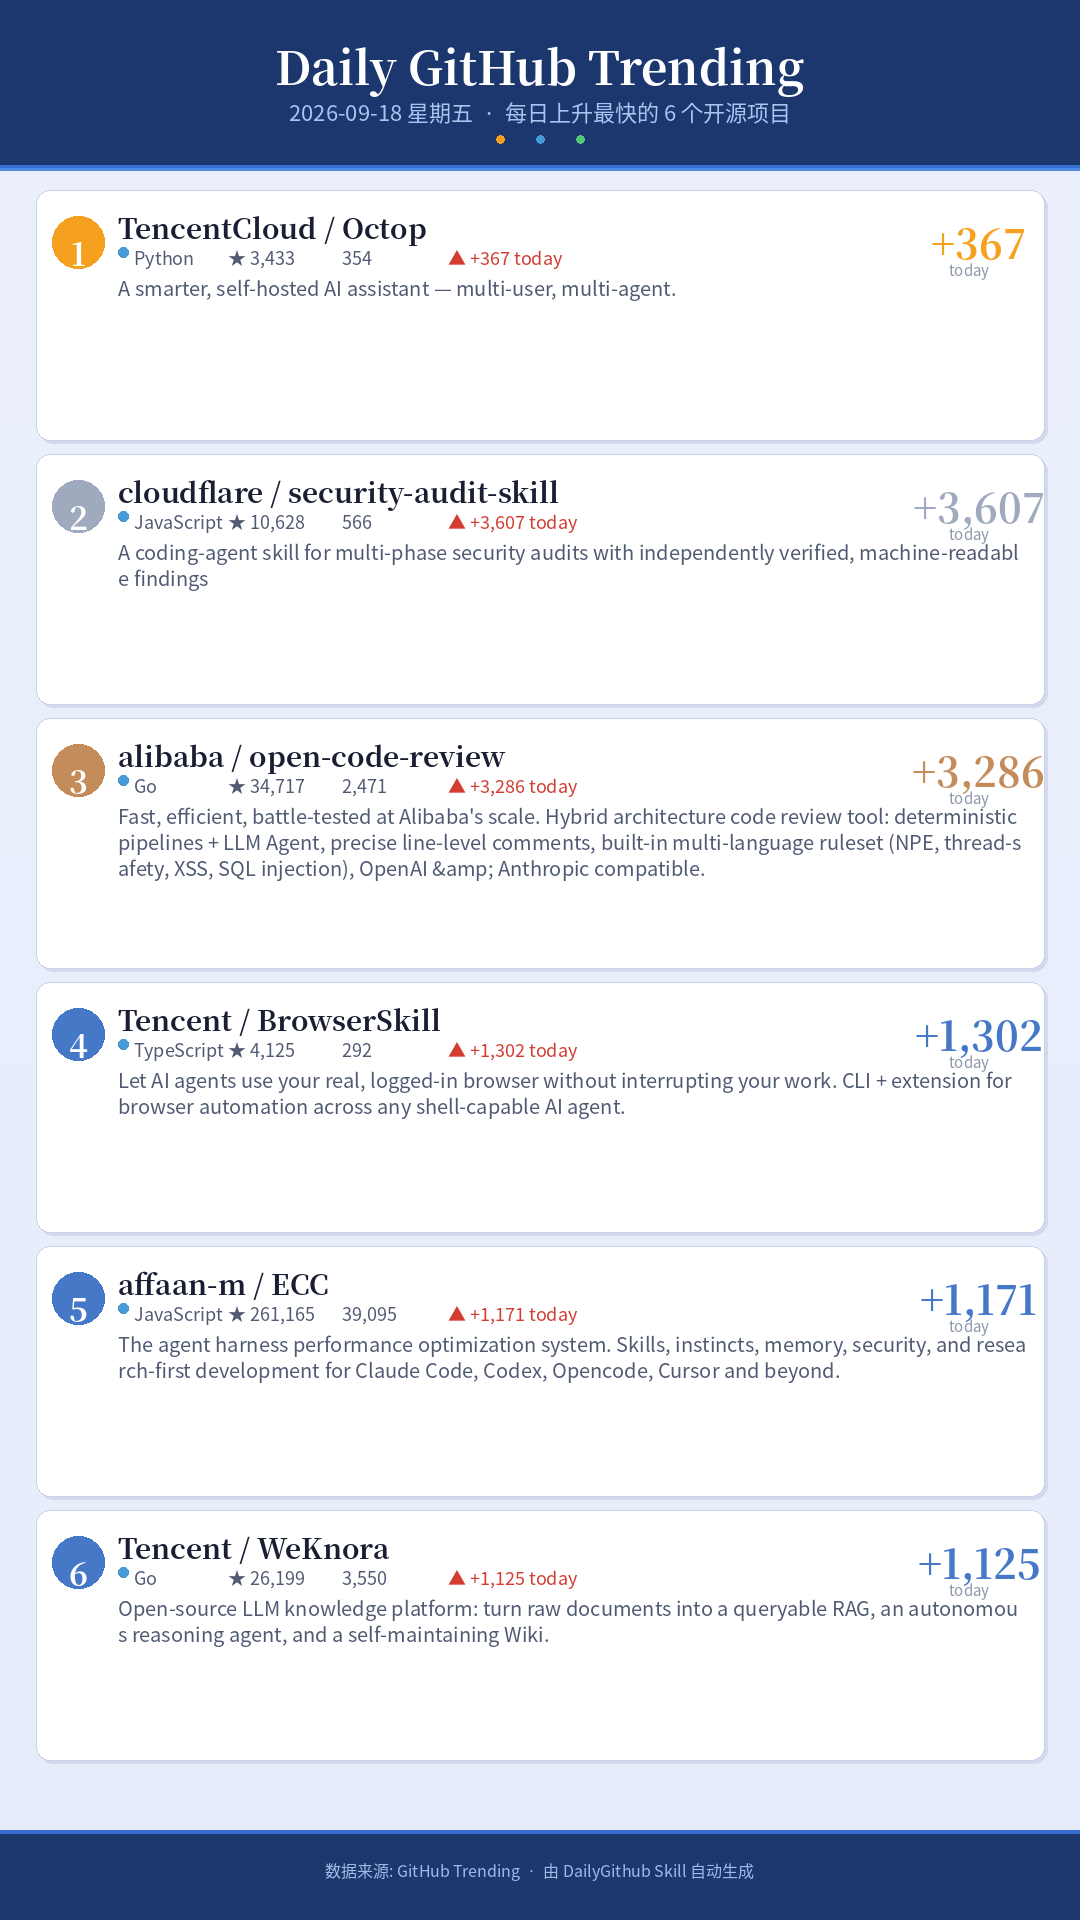
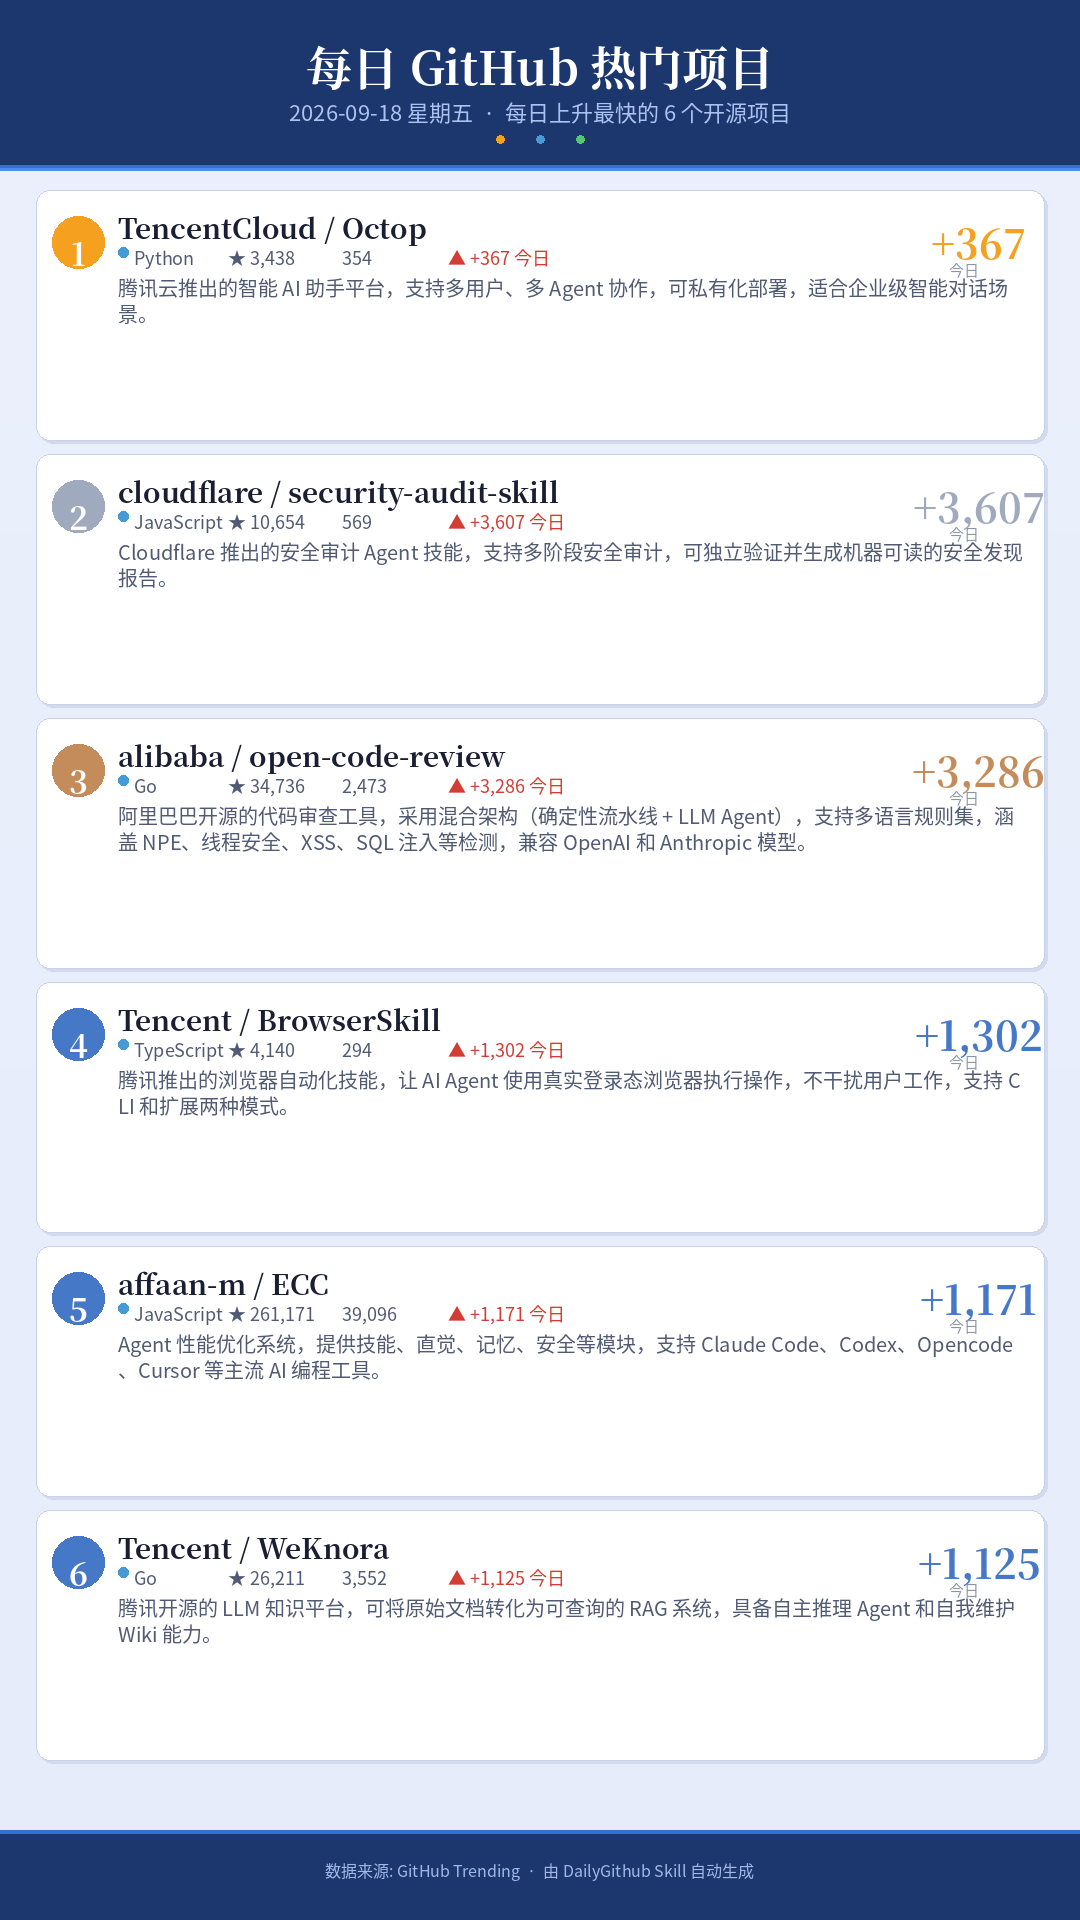
feat: 贴图文字全部中文化，新增项目中文描述数据库
- 标题改为「每日 GitHub 热门项目」
- 所有 UI 文字（today→今日、Unknown→未知）改为中文
- 新增 25 个常见开源项目的中文描述数据库
- 描述内容充实准确，给人启发

diff --git a/skills/DailyGithub/generate.py b/skills/DailyGithub/generate.py
@@ -55,6 +55,47 @@ FONT_DIR = "/usr/share/fonts/opentype/noto"
 FONT_BOLD = os.path.join(FONT_DIR, "NotoSerifCJK-Bold.ttc")
 FONT_REGULAR = os.path.join(FONT_DIR, "NotoSansCJK-Regular.ttc")
 
+# 常见开源项目中文描述数据库
+CURATED_DESCRIPTIONS = {
+    "TencentCloud/Octop": "腾讯云推出的智能 AI 助手平台，支持多用户、多 Agent 协作，可私有化部署，适合企业级智能对话场景。",
+    "cloudflare/security-audit-skill": "Cloudflare 推出的安全审计 Agent 技能，支持多阶段安全审计，可独立验证并生成机器可读的安全发现报告。",
+    "alibaba/open-code-review": "阿里巴巴开源的代码审查工具，采用混合架构（确定性流水线 + LLM Agent），支持多语言规则集，涵盖 NPE、线程安全、XSS、SQL 注入等检测，兼容 OpenAI 和 Anthropic 模型。",
+    "Tencent/BrowserSkill": "腾讯推出的浏览器自动化技能，让 AI Agent 使用真实登录态浏览器执行操作，不干扰用户工作，支持 CLI 和扩展两种模式。",
+    "affaan-m/ECC": "Agent 性能优化系统，提供技能、直觉、记忆、安全等模块，支持 Claude Code、Codex、Opencode、Cursor 等主流 AI 编程工具。",
+    "Tencent/WeKnora": "腾讯开源的 LLM 知识平台，可将原始文档转化为可查询的 RAG 系统，具备自主推理 Agent 和自我维护 Wiki 能力。",
+    "langchain-ai/langchain": "最流行的 LLM 应用开发框架，提供链式调用、Agent、RAG 等核心能力，生态丰富，社区活跃。",
+    "openai/openai-python": "OpenAI 官方 Python SDK，提供 GPT、DALL·E、Whisper 等模型的统一调用接口。",
+    "microsoft/TypeScript": "微软开发的 JavaScript 超集，添加静态类型系统，大幅提升大型项目的可维护性和开发体验。",
+    "rust-lang/rust": "注重安全、并发和性能的系统编程语言，零成本抽象和无垃圾回收是其核心特色。",
+    "pytorch/pytorch": "Meta 开源的深度学习框架，以动态计算图和 Python 友好著称，是学术研究的首选框架。",
+    "tensorflow/tensorflow": "Google 开源的端到端机器学习平台，支持从训练到部署的全流程，适合生产环境大规模应用。",
+    "huggingface/transformers": "HuggingFace 推出的 NLP 模型库，提供数千个预训练模型的统一接口，覆盖文本、图像、语音等多模态任务。",
+    "vercel/next.js": "React 全栈框架，支持服务端渲染、静态生成和 API 路由，是构建现代 Web 应用的主流选择。",
+    "docker/compose": "Docker 官方多容器编排工具，通过 YAML 文件定义和运行多容器应用，简化微服务开发流程。",
+    "kubernetes/kubernetes": "Google 开源的容器编排平台，自动化部署、扩展和管理容器化应用，是云原生基础设施的核心。",
+    "ansible/ansible": "Red Hat 开源的自动化运维工具，无需 Agent 即可管理数千台服务器，支持配置管理、应用部署和任务编排。",
+    "grafana/grafana": "开源的可观测性平台，支持多数据源可视化监控和告警，是 DevOps 团队的标配工具。",
+    "prometheus/prometheus": "CNCF 毕业项目，开源的监控系统和时序数据库，通过 Pull 模型采集指标，是云原生监控的事实标准。",
+    "elastic/elasticsearch": "开源的分布式搜索和分析引擎，基于 Lucene 构建，支持全文搜索、结构化搜索和分析，广泛用于日志和数据分析。",
+    "apache/kafka": "LinkedIn 开源的分布式流处理平台，高吞吐、低延迟，是事件驱动架构和实时数据管道的核心组件。",
+    "redis/redis": "开源的内存数据结构存储，支持字符串、哈希、列表、集合等多种数据类型，广泛用于缓存、会话和消息队列。",
+    "nginx/nginx": "高性能 HTTP 和反向代理服务器，以高并发、低内存著称，是全球使用最广泛的 Web 服务器之一。",
+    "postgres/postgres": "世界上最先进的开源关系型数据库，支持 JSON、全文搜索、地理信息等扩展，是复杂业务场景的首选。",
+    "mongodb/mongo": "开源的文档型 NoSQL 数据库，灵活的 Schema 设计和强大的查询能力，适合快速迭代的应用开发。",
+}
+
+
+def translate_description(full_name, english_desc):
+    """获取项目的中文描述，优先使用 curated 数据库"""
+    if full_name in CURATED_DESCRIPTIONS:
+        return CURATED_DESCRIPTIONS[full_name]
+    # 尝试模糊匹配（忽略大小写）
+    for key, value in CURATED_DESCRIPTIONS.items():
+        if key.lower() == full_name.lower():
+            return value
+    # 没有 curated 描述，返回原始英文
+    return english_desc
+
 
 # ─── 数据获取 ─────────────────────────────────────────────────────────────────
 
@@ -339,7 +380,7 @@ def draw_project_card(draw, fonts, project, rank, y):
 
     # 语言 + 星标 + 今日增长 信息行
     info_y = ny + 38
-    lang = project.get("language", "Unknown")
+    lang = project.get("language", "未知")
 
     # 语言圆点
     draw.ellipse([nx, info_y + 3, nx + 10, info_y + 13], fill=C["lang_dot"])
@@ -359,12 +400,14 @@ def draw_project_card(draw, fonts, project, rank, y):
     today_stars = project.get("today_stars", 0)
     if today_stars > 0:
         tx = fx + 110
-        draw.text((tx, info_y), f"▲ +{today_stars:,} today", fill=C["up"], font=fonts["small"])
+        draw.text((tx, info_y), f"▲ +{today_stars:,} 今日", fill=C["up"], font=fonts["small"])
 
-    # 描述区域
+    # 描述区域 - 使用中文描述
     desc = project.get("description", "暂无描述").strip()
     if not desc:
         desc = "暂无描述"
+    # 翻译为中文
+    desc = translate_description(project["full_name"], desc)
 
     desc_x = nx
     desc_y = info_y + 28
@@ -382,7 +425,7 @@ def draw_project_card(draw, fonts, project, rank, y):
         bbox = draw.textbbox((0, 0), big_text, font=fonts["big_num"])
         bw = bbox[2] - bbox[0]
         draw.text((big_x + (130 - bw) // 2, big_y), big_text, fill=rank_color, font=fonts["big_num"])
-        draw.text((big_x + 35, big_y + 46), "today", fill=C["text_light"], font=fonts["tag"])
+        draw.text((big_x + 35, big_y + 46), "今日", fill=C["text_light"], font=fonts["tag"])
 
     return card_h + 14
 
@@ -411,7 +454,7 @@ def generate_image(projects, output_path):
     draw.rectangle([0, header_h - 2, IMG_W, header_h], fill=(80, 140, 230))
 
     # 主标题
-    draw_text_center(draw, "Daily GitHub Trending", 32, fonts["title"], C["text_white"])
+    draw_text_center(draw, "每日 GitHub 热门项目", 32, fonts["title"], C["text_white"])
 
     # 副标题
     subtitle = f"{TODAY} {WEEKDAY}  ·  每日上升最快的 6 个开源项目"
